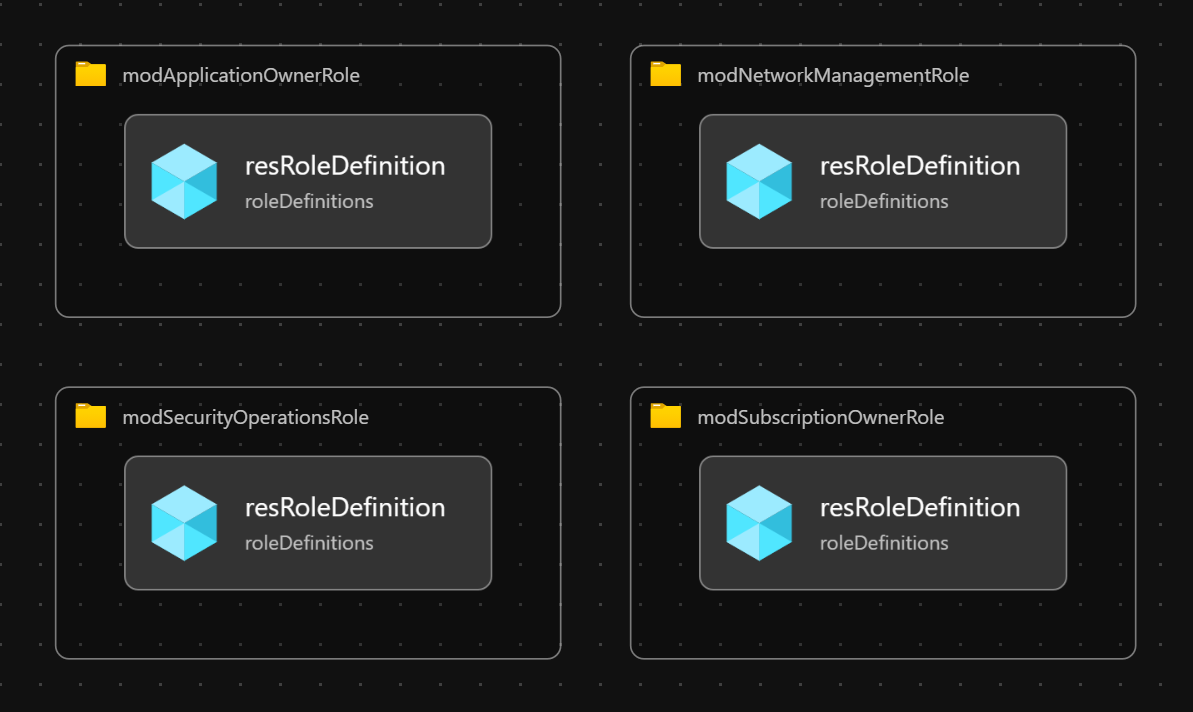
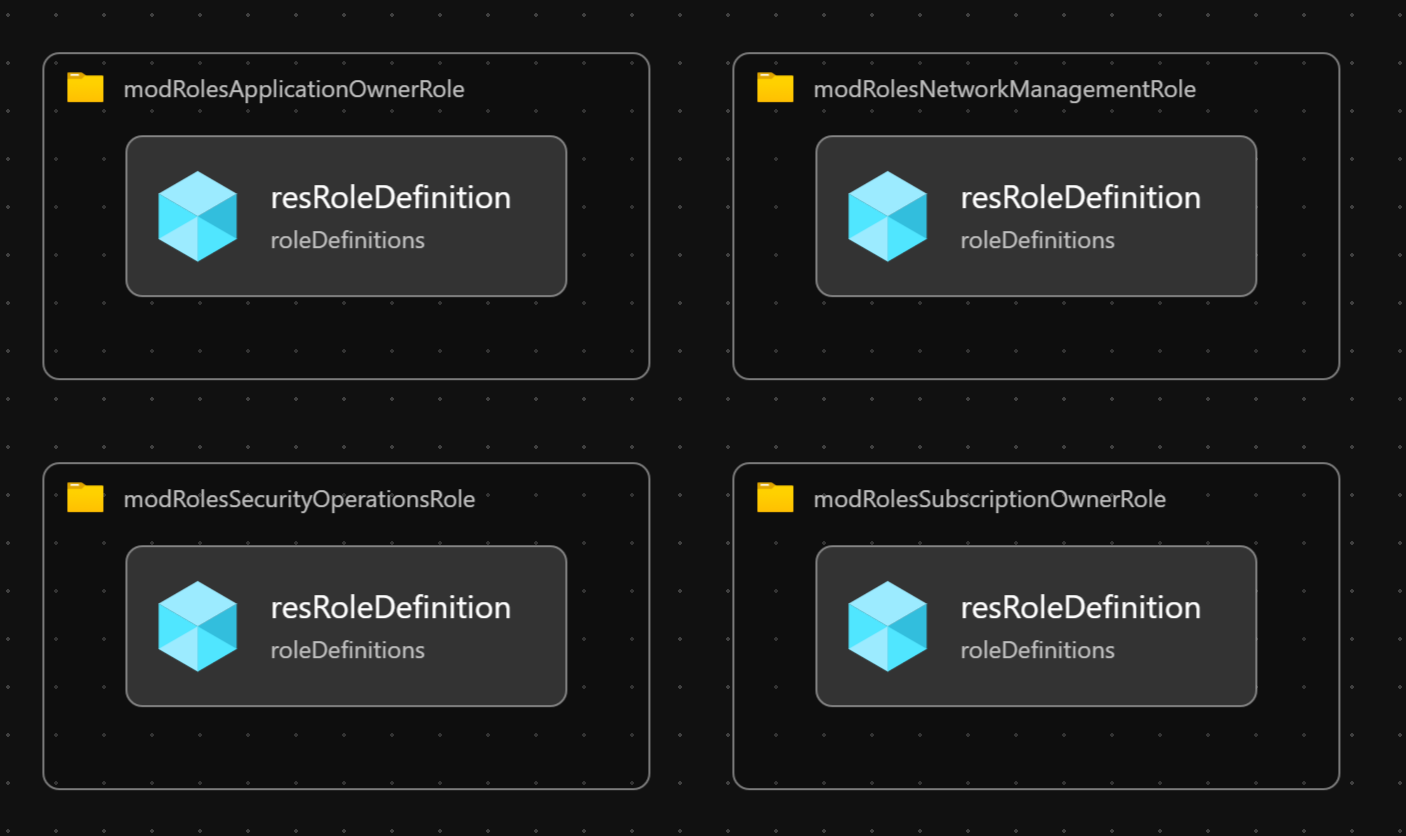
Update bicep visualizer & output param names

diff --git a/infra-as-code/bicep/modules/roles/README.md b/infra-as-code/bicep/modules/roles/README.md
@@ -24,10 +24,10 @@ The module will generate the following outputs:
 
 Output | Type | Example
 ------ | ---- | --------
-outSubscriptionOwnerRoleId | string | Microsoft.Authorization/roleDefinitions/8736d87d-8d31-53be-b952-a04c8d470f69
-outApplicationOwnerRoleId | string | Microsoft.Authorization/roleDefinitions/4308c4e6-07d5-534f-9e18-32769872a3f4
-outNetworkManagementRoleId | string | Microsoft.Authorization/roleDefinitions/4a200286-e2a0-5239-aa8f-fe0a90dd2eb5
-outSecurityOperationsRoleId | string | Microsoft.Authorization/roleDefinitions/b2960c40-d3db-5190-94c1-5b07c9547956
+outRolesSubscriptionOwnerRoleId | string | Microsoft.Authorization/roleDefinitions/8736d87d-8d31-53be-b952-a04c8d470f69
+outRolesApplicationOwnerRoleId | string | Microsoft.Authorization/roleDefinitions/4308c4e6-07d5-534f-9e18-32769872a3f4
+outRolesNetworkManagementRoleId | string | Microsoft.Authorization/roleDefinitions/4a200286-e2a0-5239-aa8f-fe0a90dd2eb5
+outRolesSecurityOperationsRoleId | string | Microsoft.Authorization/roleDefinitions/b2960c40-d3db-5190-94c1-5b07c9547956
 
 ## Deployment
 
